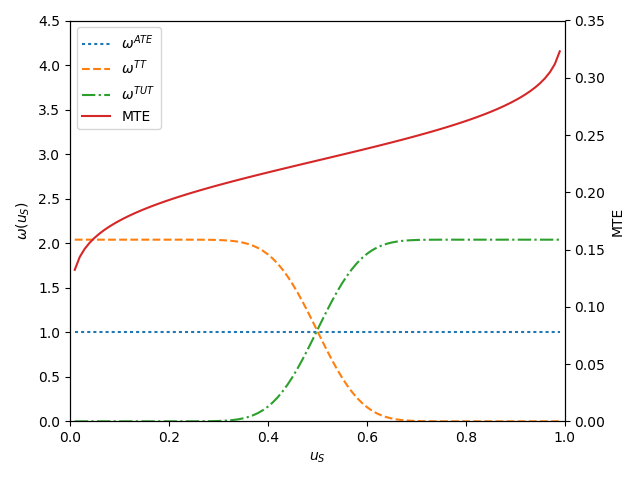
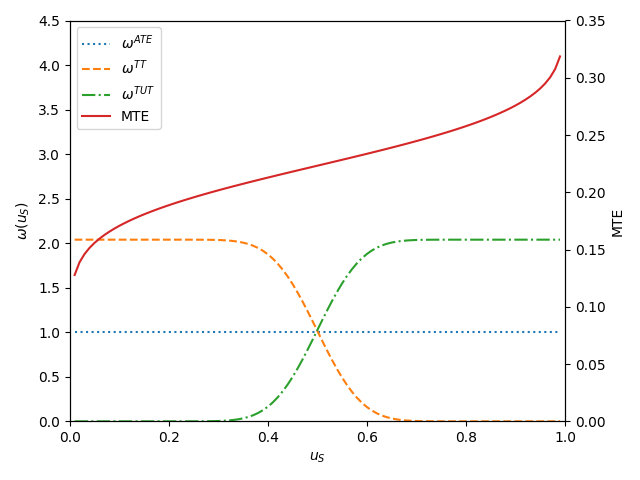
Edits on the scripts that handle the figure creation

diff --git a/development/tests/reliability/reliability.py b/development/tests/reliability/reliability.py
@@ -2,18 +2,24 @@
 estimation strategy. Additionally the module creates four different figures for the reliability
 section of the documentation.
 """
-from grmpy.test.random_init import print_dict
-from grmpy.estimate.estimate import estimate
-from grmpy.simulate.simulate import simulate
-from grmpy.test.auxiliary import cleanup
-from grmpy.read.read import read
+import warnings
+import linecache
+import shlex
+import os
+
+warnings.simplefilter(action='ignore', category=FutureWarning)
 
 from statsmodels.sandbox.regression.gmm import IV2SLS
 import matplotlib.pyplot as plt
 import statsmodels.api as sm
+from os.path import join
+from shutil import move
 import numpy as np
-import linecache
-import shlex
+
+from grmpy.test.random_init import print_dict
+from grmpy.estimate.estimate import estimate
+from grmpy.simulate.simulate import simulate
+from grmpy.read.read import read
 
 def update_correlation_structure(model_dict, rho):
     """This function takes a valid model specification and updates the correlation structure
@@ -60,7 +66,7 @@ def monte_carlo(file, grid_points):
         # Simulate a Data set and specify exogeneous and endogeneous variables
         df_mc = simulate(file)
 
-        endog, exog, instr = df_mc['Y'], df_mc[['X_0', 'D']], df_mc[['X_0', 'X_1']]
+        endog, exog, instr = df_mc['Y'], df_mc[['X0', 'D']], df_mc[['X0', 'X1']]
         d_treated = df_mc['D'] == 1
 
         # Effect randomization
@@ -83,16 +89,17 @@ def monte_carlo(file, grid_points):
     return effects
 
 def create_plots(effects, true):
-    """The function creates the """
+    """The function creates the figures that illustrates the behavior of each estimator of the ATE
+    when the correlation structure changes from 0 to 1."""
 
     # Determine the title for each strategy plot
     for strategy in ['random', 'grmpy', '2sls', 'ols']:
         if strategy == 'random':
             title = 'Perfect randomization'
         elif strategy == 'grmpy':
-            title= 'Local Average Treatment Effect'
+            title= 'Local Instrumental Variables'
         elif strategy == '2sls':
-            title = 'Instrumental Variable'
+            title = 'Instrumental Variables'
         elif strategy == 'ols':
             title = 'Ordinary Least Squares'
 
@@ -116,8 +123,14 @@ def create_plots(effects, true):
         file_name = 'fig_{}_average_effect_estimation.png'.format(strategy)
         plt.savefig(file_name)
 
+if __name__ == '__main__':
+    directory = os.path.dirname(os.path.realpath(__file__))
+    target = os.path.split(os.path.split(os.path.split(directory)[0])[0])[0] + '/docs/figures'
+    x = monte_carlo('test.grmpy.ini', 10)
+    create_plots(x, 0.5)
+    for type in ['grmpy', 'ols', '2sls', 'random']:
+        filename = 'fig_{}_average_effect_estimation.png'.format(type)
+        move(join(directory, filename), join(target, filename))
 
-x = monte_carlo('test.grmpy.ini', 10)
-create_plots(x, 0.5)
 
 

diff --git a/docs/figures/fig-weights-marginal-effect.py b/docs/figures/fig-weights-marginal-effect.py
@@ -1,27 +1,21 @@
-# -*- coding: utf-8 -*-
+""" This script creates a figure to illustrate how the usual treatment effects can be constructed by
+ using differen weights on the marginal treatment effect.
 """
-Created on Wed Jan 10 13:46:45 2018
-
-@author: master
-"""
-
-import numpy as np
 import matplotlib.pyplot as plt
-
-from scipy.stats import multivariate_normal, norm
-
 from scipy.integrate import quad
 from scipy.stats import norm
+import numpy as np
 
-from grmpy.simulate.simulate_auxiliary import simulate_covariates
 from grmpy.simulate.simulate_auxiliary import construct_covariance_matrix
+from grmpy.simulate.simulate_auxiliary import simulate_covariates
 from grmpy.simulate.simulate_auxiliary import mte_information
 from grmpy.read.read import read
 
-filename = ('tutorial.grmpy.ini')
+filename = 'tutorial.grmpy.ini'
 
 init_dict = read(filename)
 GRID = np.linspace(0.01, 0.99, num=99, endpoint=True)
+
 
 def weights_treatment_parameters(init_dict, GRID):
     """This function calculates the weights for the special case in
@@ -33,8 +27,10 @@ def weights_treatment_parameters(init_dict, GRID):
     coeffs_untreated = init_dict['UNTREATED']['all']
     coeffs_treated = init_dict['TREATED']['all']
     cov = construct_covariance_matrix(init_dict)
-    
-    x = simulate_covariates(init_dict, 'TREATED')
+
+    x = simulate_covariates(init_dict)
+    x = x[:, :2]
+
     # We take the specified distribution for the cost shifters from the paper.
     cost_mean, cost_sd = -0.0026, np.sqrt(0.270)
     v_mean, v_sd = 0.00, np.sqrt(cov[2, 2])
@@ -56,13 +52,13 @@ def weights_treatment_parameters(init_dict, GRID):
 
     # Scaling so that the weights integrate to one.
     tut_scaling = quad(tut_integrand, 0.01, 0.99)[0]
-    tut_weights = tut_weights / tut_scaling
+    tut_weights /= tut_scaling
 
     tt_scaling = quad(tt_integrand, 0.01, 0.99)[0]
-    tt_weights = tt_weights / tt_scaling
-    
-    mte = mte_information(coeffs_treated, coeffs_untreated, cov, GRID, x)
-    
+    tt_weights /= tt_scaling
+
+    mte = mte_information(coeffs_treated, coeffs_untreated, cov, GRID, x, init_dict)
+
     return ate_weights, tt_weights, tut_weights, mte
 
 

diff --git a/docs/figures/fig-eh-marginal-effect.py b/docs/figures/fig-eh-marginal-effect.py
@@ -1,49 +1,46 @@
-# -*- coding: utf-8 -*-
+"""The script creates a figure to illustrate the appearance of the marginal treatment effect in the
+abscence and presence of individual heterogeneity.
 """
-Created on Tue Jan  2 12:54:45 2018
-
-@author: master
-"""
-import numpy as np
 import matplotlib.pyplot as plt
+import numpy as np
 
-from grmpy.simulate.simulate_auxiliary import simulate_covariates
 from grmpy.simulate.simulate_auxiliary import construct_covariance_matrix
+from grmpy.simulate.simulate_auxiliary import simulate_covariates
 from grmpy.simulate.simulate_auxiliary import mte_information
 from grmpy.read.read import read
-
 
 filename = "tutorial.grmpy.ini"
 
 GRID = np.linspace(0.01, 0.99, num=99, endpoint=True)
 init_dict = read(filename)
 
+
 def plot_marginal_treatment_effect(pres, abs_):
     ax = plt.figure().add_subplot(111)
-    
+
     ax.set_ylabel(r"$B^{MTE}$")
     ax.set_xlabel("$u_S$")
     ax.plot(GRID, pres, label='Presence')
-    ax.plot(GRID, abs_, label='Absence', linestyle = '--')
-    
+    ax.plot(GRID, abs_, label='Absence', linestyle='--')
+
     ax.set_ylim([1.5, 4.5])
-    
+
     plt.legend()
-    
+
     plt.tight_layout()
     plt.savefig('fig-eh-marginal-effect.png')
-    
+
+
 if __name__ == '__main__':
     coeffs_untreated = init_dict['UNTREATED']['all']
     coeffs_treated = init_dict['TREATED']['all']
     cov = construct_covariance_matrix(init_dict)
-    x = simulate_covariates(init_dict, 'TREATED')
-    save_data(x)
-    
-    MTE_pres = mte_information(coeffs_treated, coeffs_untreated, cov, GRID, x)
-    
+    x = simulate_covariates(init_dict)
+    x = x[:, :2]
+    MTE_pres = mte_information(coeffs_treated, coeffs_untreated, cov, GRID, x, init_dict)
+
     para_diff = coeffs_treated - coeffs_untreated
-    
+
     MTE_abs = []
     for i in GRID:
         if cov[2, 2] == 0.00:
@@ -51,5 +48,5 @@ if __name__ == '__main__':
         else:
             MTE_abs += [
                 np.mean(np.dot(para_diff, x.T))]
-            
+
     plot_marginal_treatment_effect(MTE_pres, MTE_abs)

diff --git a/docs/figures/fig-local-average-treatment.py b/docs/figures/fig-local-average-treatment.py
@@ -1,20 +1,9 @@
-# -*- coding: utf-8 -*-
-"""
-Created on Tue Jan  9 21:25:29 2018
-
-@author: master
-"""
-
 """This module contains the code for a local average treatment graph.
-
 """
-import numpy as np
 import matplotlib.pyplot as plt
 
-from scipy.stats import norm
-
-from grmpy.simulate.simulate_auxiliary import simulate_covariates
 from grmpy.simulate.simulate_auxiliary import construct_covariance_matrix
+from grmpy.simulate.simulate_auxiliary import simulate_covariates
 from grmpy.simulate.simulate_auxiliary import mte_information
 from grmpy.read.read import read
 
@@ -22,7 +11,6 @@ filename = 'tutorial.grmpy.ini'
 
 GRID = [i / 100 for i in range(1, 100, 1)]
 init_dict = read(filename)
-
 
 
 def plot_local_average_treatment(mte):
@@ -79,13 +67,12 @@ def plot_local_average_treatment(mte):
 
 
 if __name__ == '__main__':
-    
     coeffs_untreated = init_dict['UNTREATED']['all']
     coeffs_treated = init_dict['TREATED']['all']
     cov = construct_covariance_matrix(init_dict)
-    x = simulate_covariates(init_dict, 'TREATED')
-    
+    x = simulate_covariates(init_dict)
+    x = x[:, :2]
 
-    mte = mte_information(coeffs_treated, coeffs_untreated, cov, GRID, x) 
-    
+    mte = mte_information(coeffs_treated, coeffs_untreated, cov, GRID, x, init_dict)
+
     plot_local_average_treatment(mte)

diff --git a/docs/__init__.py b/docs/__init__.py
@@ -1,0 +1,20 @@
+"""The module allows to run tests from inside the interpreter."""
+import os
+
+import pytest
+
+from grmpy.simulate.simulate import simulate
+from grmpy.estimate.estimate import estimate
+
+
+def test():
+    """The function allows to run the tests from inside the interpreter."""
+
+    package_directory = os.path.dirname(os.path.realpath(__file__))
+    current_directory = os.getcwd()
+
+    os.chdir(package_directory)
+
+    pytest.main()
+
+    os.chdir(current_directory)

diff --git a/docs/figures/__init__.py b/docs/figures/__init__.py
@@ -1,0 +1,20 @@
+"""The module allows to run tests from inside the interpreter."""
+import os
+
+import pytest
+
+from grmpy.simulate.simulate import simulate
+from grmpy.estimate.estimate import estimate
+
+
+def test():
+    """The function allows to run the tests from inside the interpreter."""
+
+    package_directory = os.path.dirname(os.path.realpath(__file__))
+    current_directory = os.getcwd()
+
+    os.chdir(package_directory)
+
+    pytest.main()
+
+    os.chdir(current_directory)
